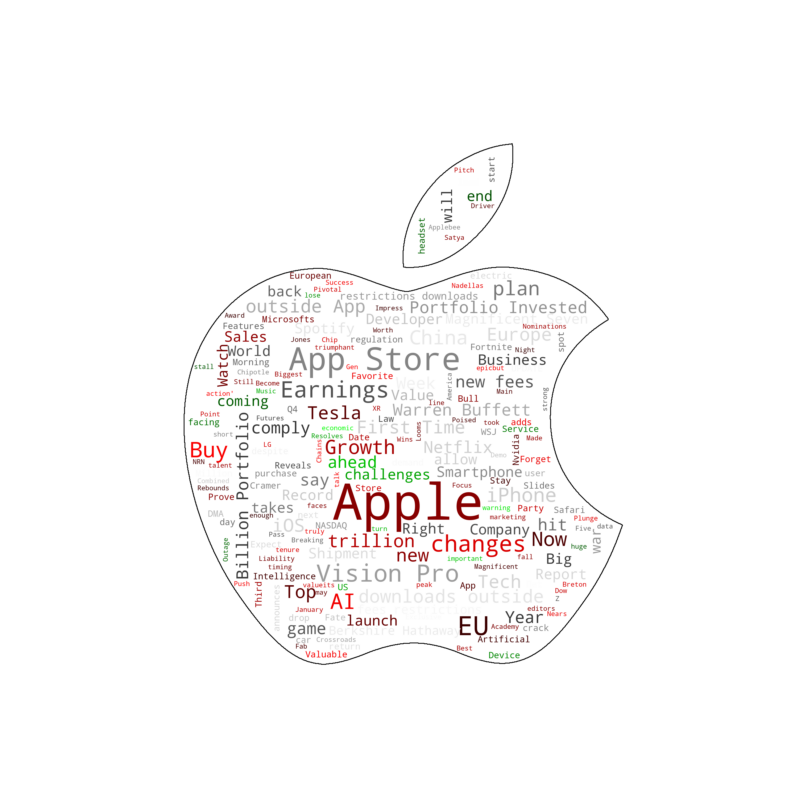
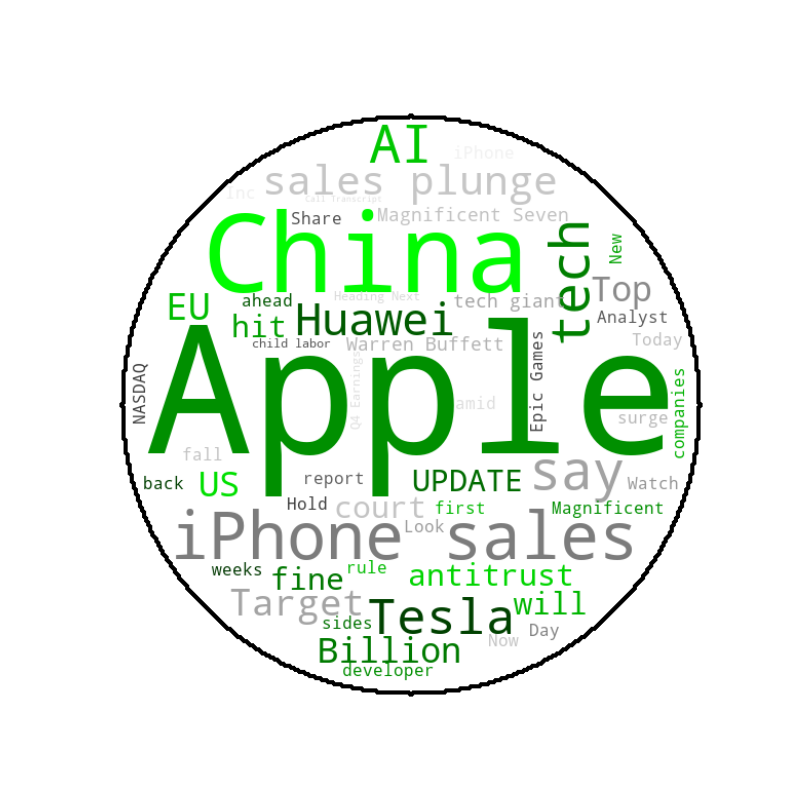
revised

Changed region(s): [[0.125, 0.125, 0.875, 0.875], [0.3438, 0.1562, 0.4375, 0.1875]]

diff --git a/sp500/time_series/time_series_preprocessing.py b/sp500/time_series/time_series_preprocessing.py
@@ -7,7 +7,7 @@ from datetime import datetime
 from sklearn.preprocessing import MinMaxScaler
 from sklearn.model_selection import train_test_split
 from sp500.headlines.scraper import headlines
-
+from sp500.sa.analyzer import implementation
 
 HORIZON = {"2D": 2, "5D": 5, "3M": 63, "6M": 126, "1Y": 252}
 
@@ -225,23 +225,23 @@ def ticker_macro_merge(ticker_df, macro_indicators):
 
 def test_train_prep(company, news_data=None):
     """
-    Prepare time-series training and testing data for the stock movement prediction model
+     Prepare time-series training and testing data for the stock movement prediction model
 
-    Parameters
-    ----------
-    company: a string name
+     Parameters
+     ----------
+     company: a string name
 
-    Returns
-    -------
-   all_data, X_train, X_test, y_train, y_test:  a 5-tuple containing a scaled and preprocessed dataframe 
-   and the training/testing numpy arrays
+     Returns
+     -------
+    all_data, X_train, X_test, y_train, y_test:  a 5-tuple containing a scaled and preprocessed dataframe
+    and the training/testing numpy arrays
     """
     ticker_df = load_ticker_data(company)
     macro_indicators = fetch_macro_indicators()
     preprocess_macro_data(macro_indicators)
     combined_df = ticker_macro_merge(ticker_df, macro_indicators)
 
-    combined_df = combined_df.apply(pd.to_numeric, errors='coerce')
+    combined_df = combined_df.apply(pd.to_numeric, errors="coerce")
 
     combined_df["Tomorrow"] = combined_df["Adj Close"].shift(-1)
     combined_df["Target"] = (combined_df["Tomorrow"] > combined_df["Adj Close"]).astype(
@@ -249,20 +249,49 @@ def test_train_prep(company, news_data=None):
     )
 
     # Imputed misising values with a rolling average in a window size of 5
-    combined_df = combined_df.fillna(combined_df.rolling(window=5, min_periods=1).mean())
-    combined_df = combined_df.dropna()
+    combined_df = combined_df.fillna(
+        combined_df.rolling(window=30, min_periods=1).mean()
+    )
 
-    if news_data:
-        combined_df = news_data.merge(combined_df, how="right", left_index=True, right_index=True)
+    if not news_data.empty:
+        news_data['Date'] = pd.to_datetime(news_data['Date'])
+        news_data['Time'] = pd.to_datetime(news_data['Time'], format='%I:%M%p').dt.time
+        news_data['Datetime'] = news_data.apply(lambda r : datetime.combine(r['Date'], r['Time']), 1)
+
+        # Adding timezone information
+        news_data['Datetime'] = news_data['Datetime'].dt.tz_localize('Etc/GMT+5')
+
+        # Generating full range with timezone
+        start_date = news_data['Datetime'].min().tz_convert(None).replace(hour=0, minute=0)
+        end_date = news_data['Datetime'].max().tz_convert(None).replace(hour=23, minute=59)
+        full_range = pd.date_range(start=start_date, end=end_date, freq='T', tz='Etc/GMT+5').to_frame(index=False, name='Datetime')
+
+        # Merge the original dataframe with the full range to include missing minutes as NaN
+        df_full = full_range.merge(news_data, on='Datetime', how='outer').drop(['Date', 'Time'], axis=1)
+
+        # Sort the dataframe by datetime
+        df_full = df_full.sort_values(by='Datetime').reset_index(drop=True)
+
+        # Replace NaT with NA
+        news_data = df_full.fillna('NA')
+        combined_df = news_data.merge(
+            combined_df, how="right", left_index=True, right_index=True
+        )
+
+    combined_df = combined_df.dropna()
 
     y = combined_df["Target"]
 
-    X = combined_df[
-        combined_df.columns.difference(
-            ["Target", "Close Adj Close", "Adj Close", "Tomorrow", "Volume"]
-        )
-    ]
-    
+    combined_df = implementation(combined_df)
+
+    print(combined_df)
+    non_object_cols = combined_df.select_dtypes(exclude=["object"])
+    final_columns = non_object_cols.columns.difference(
+        ["Target", "Close Adj Close", "Adj Close", "Tomorrow", "Volume"]
+    )
+
+    X = combined_df[final_columns]
+
     scaler = MinMaxScaler()
     X_scaled = scaler.fit_transform(X)
     X_scaled_df = pd.DataFrame(X_scaled, index=X.index, columns=X.columns)
@@ -273,3 +302,12 @@ def test_train_prep(company, news_data=None):
     )
 
     return all_data, X_train, X_test, y_train, y_test
+
+if __name__ == "__main__":
+    headers = {
+        "User-Agent": "Mozilla/5.0",
+        "Referer": "http://finviz.com/quote.ashx?t=",
+    }
+
+    news_df =  headlines(headers, ["AAPL"], 5)
+    all_data, _, _, _, _ = test_train_prep("AAPL", news_df)

diff --git a/sp500/sa/analyzer.py b/sp500/sa/analyzer.py
@@ -1,7 +1,10 @@
 from sp500.sa.sa import calculate_score
 from sp500.headlines.scraper import headlines
+from sp500.visualization.create_word_cloud import create_wordcloud, map_stock_names_to_company_names
+from sp500.visualization.datatypes import GroupedColorFunc
 import pathlib
 import pandas as pd
+from pathlib import Path
 
 def implementation(df = None):
     """
@@ -14,9 +17,11 @@ def implementation(df = None):
         )
 
         labeled_data = pd.read_csv(labeled_data_filename, encoding="unicode_escape")
-        df = calculate_score(labeled_data)
+        df1 = calculate_score(labeled_data)
     else:
-        df = calculate_score(df)
+        df1 = calculate_score(df)
+    
+    return df1
         
 if __name__ == "__main__":
     headers = {
@@ -25,4 +30,14 @@ if __name__ == "__main__":
     }
 
     news_df =  headlines(headers, ["AAPL"], 5)
-    implementation(news_df)
+    sentiment_df = implementation(news_df)
+    stock_to_company = map_stock_names_to_company_names(sentiment_df,"Company")
+    visualization_dir = Path(__file__).resolve().parent.parent / "visualization" / "visualization"
+    create_wordcloud(
+        df=sentiment_df,
+        company_logo_paths=None,
+        stock_to_company=stock_to_company,
+        visualization_dir=visualization_dir,
+    )
+
+

diff --git a/sp500/visualization/wordcloud_in_logo.py b/sp500/visualization/wordcloud_in_logo.py
@@ -17,8 +17,8 @@ COMPANY_LOGO_PATHS = {
 
 def run_word_cloud():
     filename = Path(__file__).parent.parent / "sa/data/Finished_test_sa.csv"
-    visualization_dir = Path(__file__).resolve().parent / "visualization"
     df = pd.read_csv(filename)
+    visualization_dir = Path(__file__).resolve().parent / "visualization"
     stock_to_company = map_stock_names_to_company_names(df, "Company")
     create_wordcloud(
         df=df,

diff --git a/sp500/sa/sa.py b/sp500/sa/sa.py
@@ -204,7 +204,6 @@ def calculate_score(df):
             print(f"The stock price movement of {ticker} is uncertain. The sentiment score is {score}.")
 
     print("Sentiment Analysis - Done!")
-    print(df)
 
     # labeled_data_test = match_comparison(labeled_data)
     # overall_sentiment_socre(labeled_data_test)

diff --git a/sp500/visualization/create_word_cloud.py b/sp500/visualization/create_word_cloud.py
@@ -1,6 +1,6 @@
 from wordcloud import WordCloud, STOPWORDS
 import matplotlib.pyplot as plt
-from datatypes import GroupedColorFunc
+from sp500.visualization.datatypes import GroupedColorFunc
 import os
 import re
 import numpy as np
